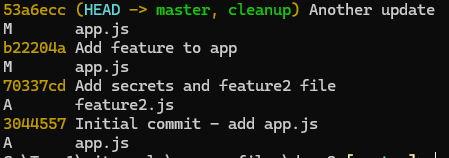
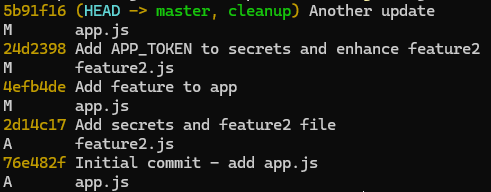
update demo script

diff --git a/git-filter-repo/git-filter-repo.md b/git-filter-repo/git-filter-repo.md
@@ -54,10 +54,19 @@ git commit -m "Add secrets and feature2 file"
 
 6. Add more commits after the sensitive commit.
 ```powershell
+# new commit
 echo "console.log('Feature added');" >> app.js
 git add app.js
 git commit -m "Add feature to app"
 
+# another new commit with secret added
+echo "APP_TOKEN=this_is_a_test_token" >> secrets.txt
+echo "console.log('feature 2 enhanced');" >> feature2.js
+git add secrets.txt
+git add feature2.js
+git commit -m "Add APP_TOKEN to secrets and enhance feature2"
+
+# more commit after secret added
 echo "console.log('Another update');" >> app.js
 git add app.js
 git commit -m "Another update"
@@ -69,7 +78,8 @@ git log --oneline --name-status
 git log --all -- secrets.txt
 ```
 
-![Master initial history](img/01-master-initial-history.png)
+![Master history](img/01-git-history-before-clearing.png)
+![Secret file history](img/02-secret-file-log.png)
 
 
 8. Create a safety branch before rewrite.
@@ -77,26 +87,13 @@ git log --all -- secrets.txt
 git checkout -b cleanup
 ```
 
-9. Create a side branch (`feature2`) with additional changes.
+
+9.  Rewrite history to remove `secrets.txt`.
 ```powershell
-git checkout master
-git checkout -b feature2
-echo "console.log('Feature 2 work');" >> feature2.js
-git add feature2.js
-git commit -m "Work on feature 2"
-git log --oneline --name-status
-```
-
-![Feature2 initial history](img/02-feature2-initial-history.png)
-
-
-10. Return to cleanup branch and rewrite history to remove `secrets.txt`.
-```powershell
-git checkout cleanup
 git filter-repo --path secrets.txt --invert-paths --force
 ```
 
-11. Verify removal from history and working tree.
+10.  Verify removal from history and working tree.
 ```powershell
 git log --oneline --name-status
 git log --all -- secrets.txt
@@ -107,7 +104,7 @@ ls secrets.txt
 You should see no commits referencing `secrets.txt` and the file should not exist in the working directory.
 The commit hashes have changed due to the rewrite.
 
-12. Switch back to *master* and review history.
+11. Switch back to *master* and review history.
 ```powershell
 git checkout master
 git log --oneline --name-status
@@ -117,14 +114,7 @@ git log --oneline --name-status
 
 The commit history on *master* should also reflect the removal of `secrets.txt` and the file should no longer be present in any commit. The hashes will differ from the original history.
 
-13. Switch to *feature2* and review history.
-```powershell
-git checkout feature2
-git log --oneline --name-status
-```
-![Feature2 history after remove](img/05-feature2-after-remove.png)
-
-14. Clean local references to old objects.
+12.  Clean local references to old objects.
 ```powershell
 git reflog expire --expire=now --all
 git gc --aggressive --prune=now
